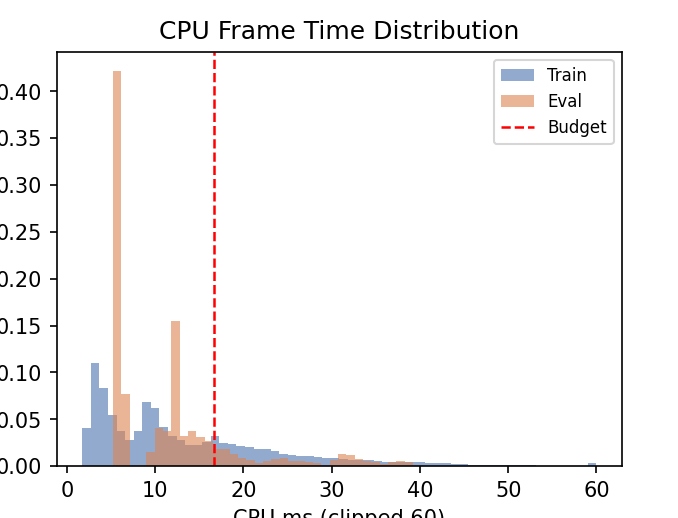
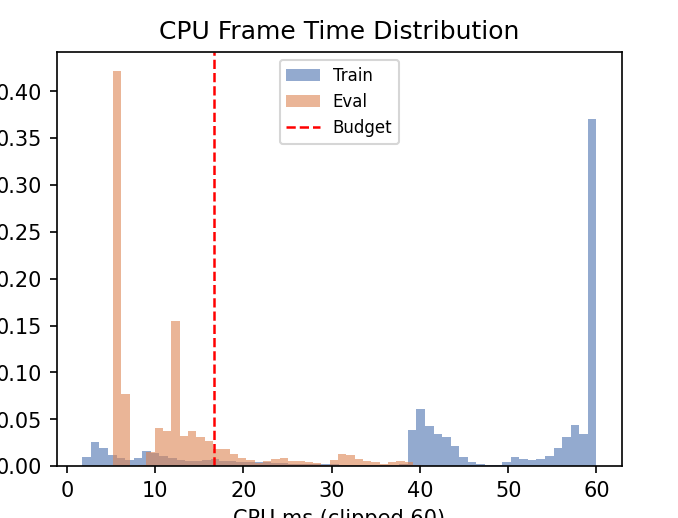
Reorganize data paths, update merge logic and plots
Update pipeline to use a reorganized data layout and improve file handling/output. config.py now expects training CSVs under data/Train_Runs and eval CSVs under data/Eval, and moves merged/labeled outputs into Train_Merged_Unlabeled and Train_Merged_labeled respectively. merge_training_data.py was changed to use recursive globbing so nested Train_Runs are discovered; run_pipeline.py now prints file paths relative to PIPELINE_ROOT for clearer output. Minor whitespace fix in generate_oracle_labels.py, multiple evaluation-vs-training plot PNGs were updated, and a duplicate/experimental merge_training_data script was added under ml_pipeline/to organize/Handle/New folder (4)/ for follow-up cleanup.

Changed region(s): [[0.7124, 0.0927, 0.9292, 0.8958], [0.1239, 0.6795, 0.7124, 0.8958], [0.4027, 0.0927, 0.5885, 0.278]]

diff --git a/ml_pipeline/to organize/Handle/New folder (4)/merge_training_data.py b/ml_pipeline/to organize/Handle/New folder (4)/merge_training_data.py
@@ -1,0 +1,61 @@
+import os
+import glob
+import pandas as pd
+
+# -----------------------------------------
+# CONFIG
+# -----------------------------------------
+INPUT_DIR   = "."                          # folder containing training_data_*.csv
+OUTPUT_FILE = "training_data_merged.csv"
+DROP_SLOW   = False                         # set False to include spd=0.5 runs
+SLOW_SPEED  = 0.5                          # move_speed value to drop if DROP_SLOW=True
+
+# Fix frame_headroom to use CPU instead of GPU
+FIX_HEADROOM    = True
+TARGET_FRAME_MS = 16.6
+# -----------------------------------------
+
+files = sorted(glob.glob(os.path.join(INPUT_DIR, "training_data_*.csv")))
+files = [f for f in files if os.path.basename(f) != OUTPUT_FILE]
+
+if not files:
+    raise FileNotFoundError(f"No training_data_*.csv files found in {INPUT_DIR}")
+
+print(f"Found {len(files)} files.")
+
+dfs     = []
+skipped = []
+
+for f in files:
+    df    = pd.read_csv(f)
+    fname = os.path.basename(f)
+
+    if DROP_SLOW and df['move_speed'].iloc[0] <= SLOW_SPEED:
+        skipped.append(fname)
+        continue
+
+    df['source_file'] = fname
+    dfs.append(df)
+    print(f"  Loaded {fname} - {len(df)} rows")
+
+if skipped:
+    print(f"\n  Skipped {len(skipped)} slow-speed files:")
+    for s in skipped:
+        print(f"     {s}")
+
+if not dfs:
+    raise ValueError("No files loaded - check DROP_SLOW and INPUT_DIR settings.")
+
+merged = pd.concat(dfs, ignore_index=True)
+
+if FIX_HEADROOM:
+    merged['frame_headroom_ms'] = TARGET_FRAME_MS - merged['cpu_frame_time_ms']
+    print(f"\n  Recomputed frame_headroom_ms = {TARGET_FRAME_MS} - cpu_frame_time_ms")
+
+print(f"\nTotal rows: {len(merged)}")
+print(f"Columns:    {list(merged.columns)}")
+print(f"\nPer-bias row counts:")
+print(merged['lod_bias_current'].value_counts().sort_index())
+
+merged.to_csv(OUTPUT_FILE, index=False)
+print(f"\nSaved to {OUTPUT_FILE}")

diff --git a/ml_pipeline/scripts/config.py b/ml_pipeline/scripts/config.py
@@ -20,22 +20,22 @@ PLOTS_DIR.mkdir(exist_ok=True)
 # ---- file paths -------------------------------------------------------
 
 # merge stage: input raw Unity training CSVs
-TRAINING_RAW_DIR     = DATA_DIR                          # put training_data_*.csv here
-TRAINING_RAW_PATTERN = str(DATA_DIR / "training_data_*.csv")
+TRAINING_RAW_DIR     = DATA_DIR / "Train_Runs"
+TRAINING_RAW_PATTERN = str(TRAINING_RAW_DIR / "**" / "training_data_*.csv")
 
 # merge stage: output
-TRAINING_MERGED = DATA_DIR / "training_data_merged.csv"
+TRAINING_MERGED = DATA_DIR / "Train_Merged_Unlabeled" / "training_data_merged.csv"
 
 # label stage: input + output
-TRAINING_LABELED = DATA_DIR / "training_data_labeled.csv"
+TRAINING_LABELED = DATA_DIR / "Train_Merged_labeled" / "training_data_labeled.csv"
 
 # eval compare stage: latest eval CSV is auto-detected (most recent by name)
 def get_latest_eval_csv() -> Path:
-    matches = sorted(glob.glob(str(DATA_DIR / "eval_neural_*.csv")))
+    matches = sorted(glob.glob(str(DATA_DIR / "Eval" / "eval_neural_*.csv")))
     if not matches:
         raise FileNotFoundError(
-            f"No eval_neural_*.csv found in {DATA_DIR}\n"
-            "Copy your EvaluationLogger output CSV into ml_pipeline/data/ first."
+            f"No eval_neural_*.csv found in {DATA_DIR / 'Eval'}\n"
+            "Copy your EvaluationLogger output CSV into ml_pipeline/data/Eval/ first."
         )
     return Path(matches[-1])
 

diff --git a/ml_pipeline/run_pipeline.py b/ml_pipeline/run_pipeline.py
@@ -30,7 +30,7 @@ from scripts import compare_eval_vs_train
 from config import (
     TRAINING_MERGED, TRAINING_LABELED,
     EVAL_COMPARE_FIG, DATA_DIR,
-    get_latest_eval_csv
+    get_latest_eval_csv, PIPELINE_ROOT
 )
 
 DIVIDER = "=" * 55
@@ -160,11 +160,11 @@ def main():
     if all_ok and results:
         print(f"\n  All stages passed.")
         if TRAINING_MERGED.exists():
-            print(f"  Merged   -> {TRAINING_MERGED.name}")
+            print(f"  Merged   -> {TRAINING_MERGED.relative_to(PIPELINE_ROOT)}")
         if TRAINING_LABELED.exists():
-            print(f"  Labeled  -> {TRAINING_LABELED.name}")
+            print(f"  Labeled  -> {TRAINING_LABELED.relative_to(PIPELINE_ROOT)}")
         if EVAL_COMPARE_FIG.exists():
-            print(f"  Figure   -> {EVAL_COMPARE_FIG.name}")
+            print(f"  Figure   -> {EVAL_COMPARE_FIG.relative_to(PIPELINE_ROOT)}")
     else:
         print(f"\n  One or more stages failed or were skipped.")
         sys.exit(1)

diff --git a/ml_pipeline/scripts/merge_training_data.py b/ml_pipeline/scripts/merge_training_data.py
@@ -10,7 +10,7 @@ from config import (
 )
 
 def run():
-    files = sorted(glob.glob(TRAINING_RAW_PATTERN))
+    files = sorted(glob.glob(TRAINING_RAW_PATTERN, recursive=True))
     files = [f for f in files if "merged" not in f and "labeled" not in f]
 
     if not files:

diff --git a/ml_pipeline/scripts/generate_oracle_labels.py b/ml_pipeline/scripts/generate_oracle_labels.py
@@ -10,7 +10,7 @@ from config import (
     POSITION_BINS, ROTATION_BINS,
     LAMBDA, SOFTMAX_TEMP, HEADROOM_WEIGHT
 )
-
+    
 def run():
     if not TRAINING_MERGED.exists():
         raise FileNotFoundError(
